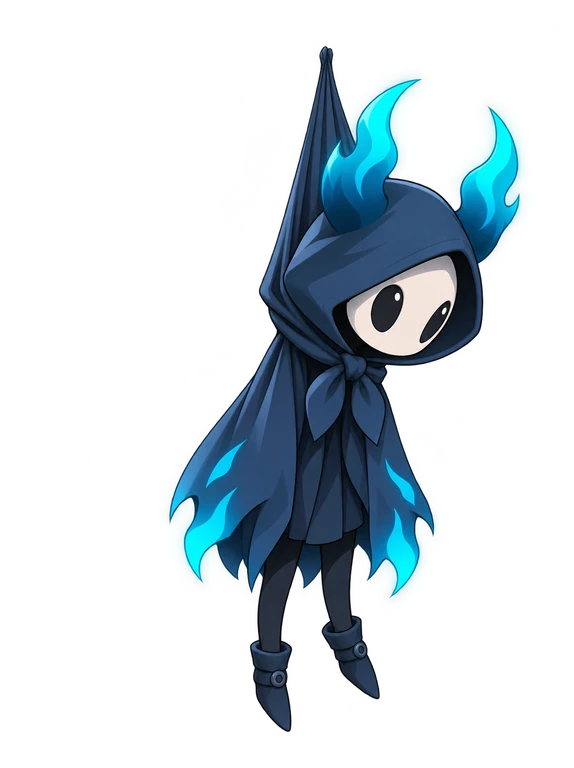
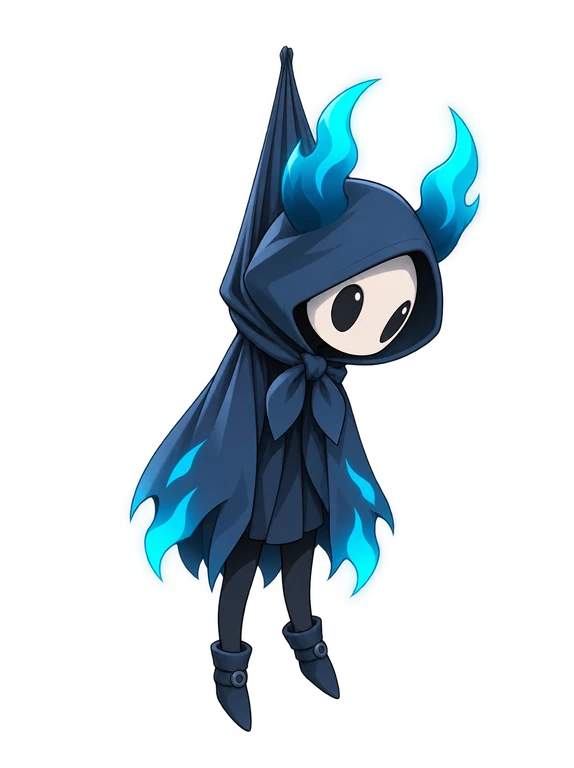
fix(character): centre the hood tip in the held pose
The user's re-fitted pack puts the hood tip exactly on the anchor; ours
was 39 px off (about 15 px on screen), so the cursor held the character
beside the hood. The other poses keep our fit: in the re-fit the seat
line and the float centre drift by 10-56 px.

Changed region(s): [[0.2073, 0.0625, 0.9181, 0.9688]]

diff --git a/docs/character/README.md b/docs/character/README.md
@@ -30,7 +30,8 @@
    - ступни и низ тела: середина непрозрачного в нижних 90 px, на высоте 0,97 (`stand`, `walk`, `lean_side`),
      0,95 (`sit_corner`), 0,92 (`laydown`, `sleep`);
    - сиденье `sit_edge` и `perch_corner`: 1030 px исходника — там же руки на краю, на высоте 0,62;
-   - `held`: кончик капюшона (x = 420 исходника, верх), на высоте 0,06;
+   - `held`: кончик капюшона, на высоте 0,06. Кадр взят из повторной подгонки пользователя
+     (2026-11-17): в ней кончик ровно по центру, а в первой версии он был смещён на 39 px;
    - `hang_side`: кулаки (верх), на высоте 0,04;
    - `float`: середина, на высоте 0,6.
 3. **Варианты** `_blink` / `_talk` подгоняются тем же преобразованием, что их поза: они совпадают с ней до пикселя.
